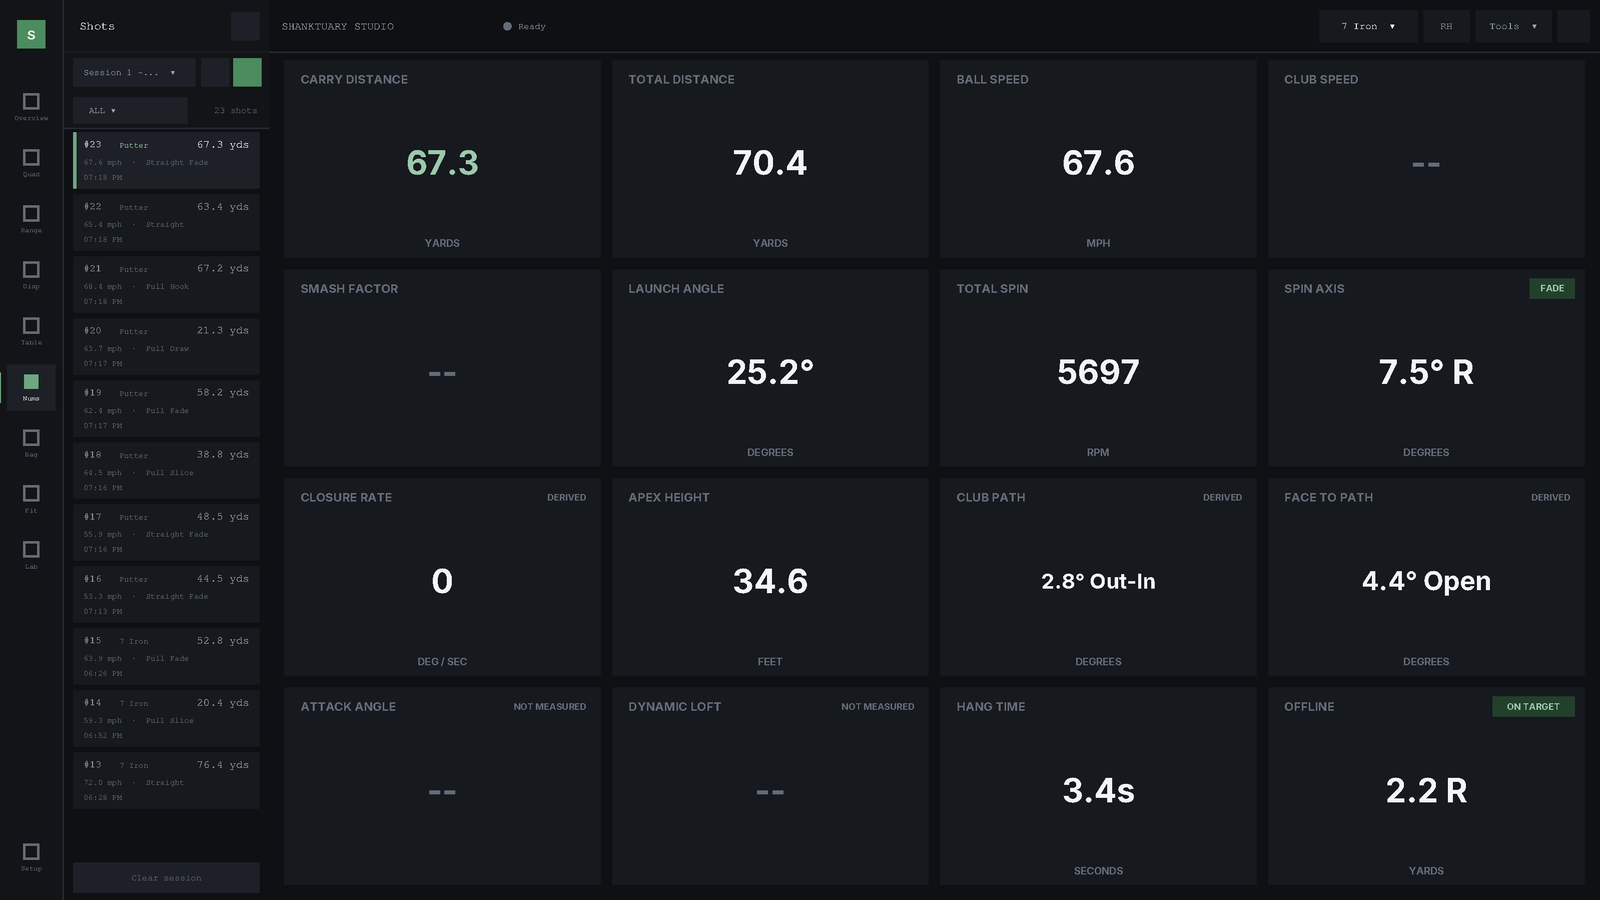
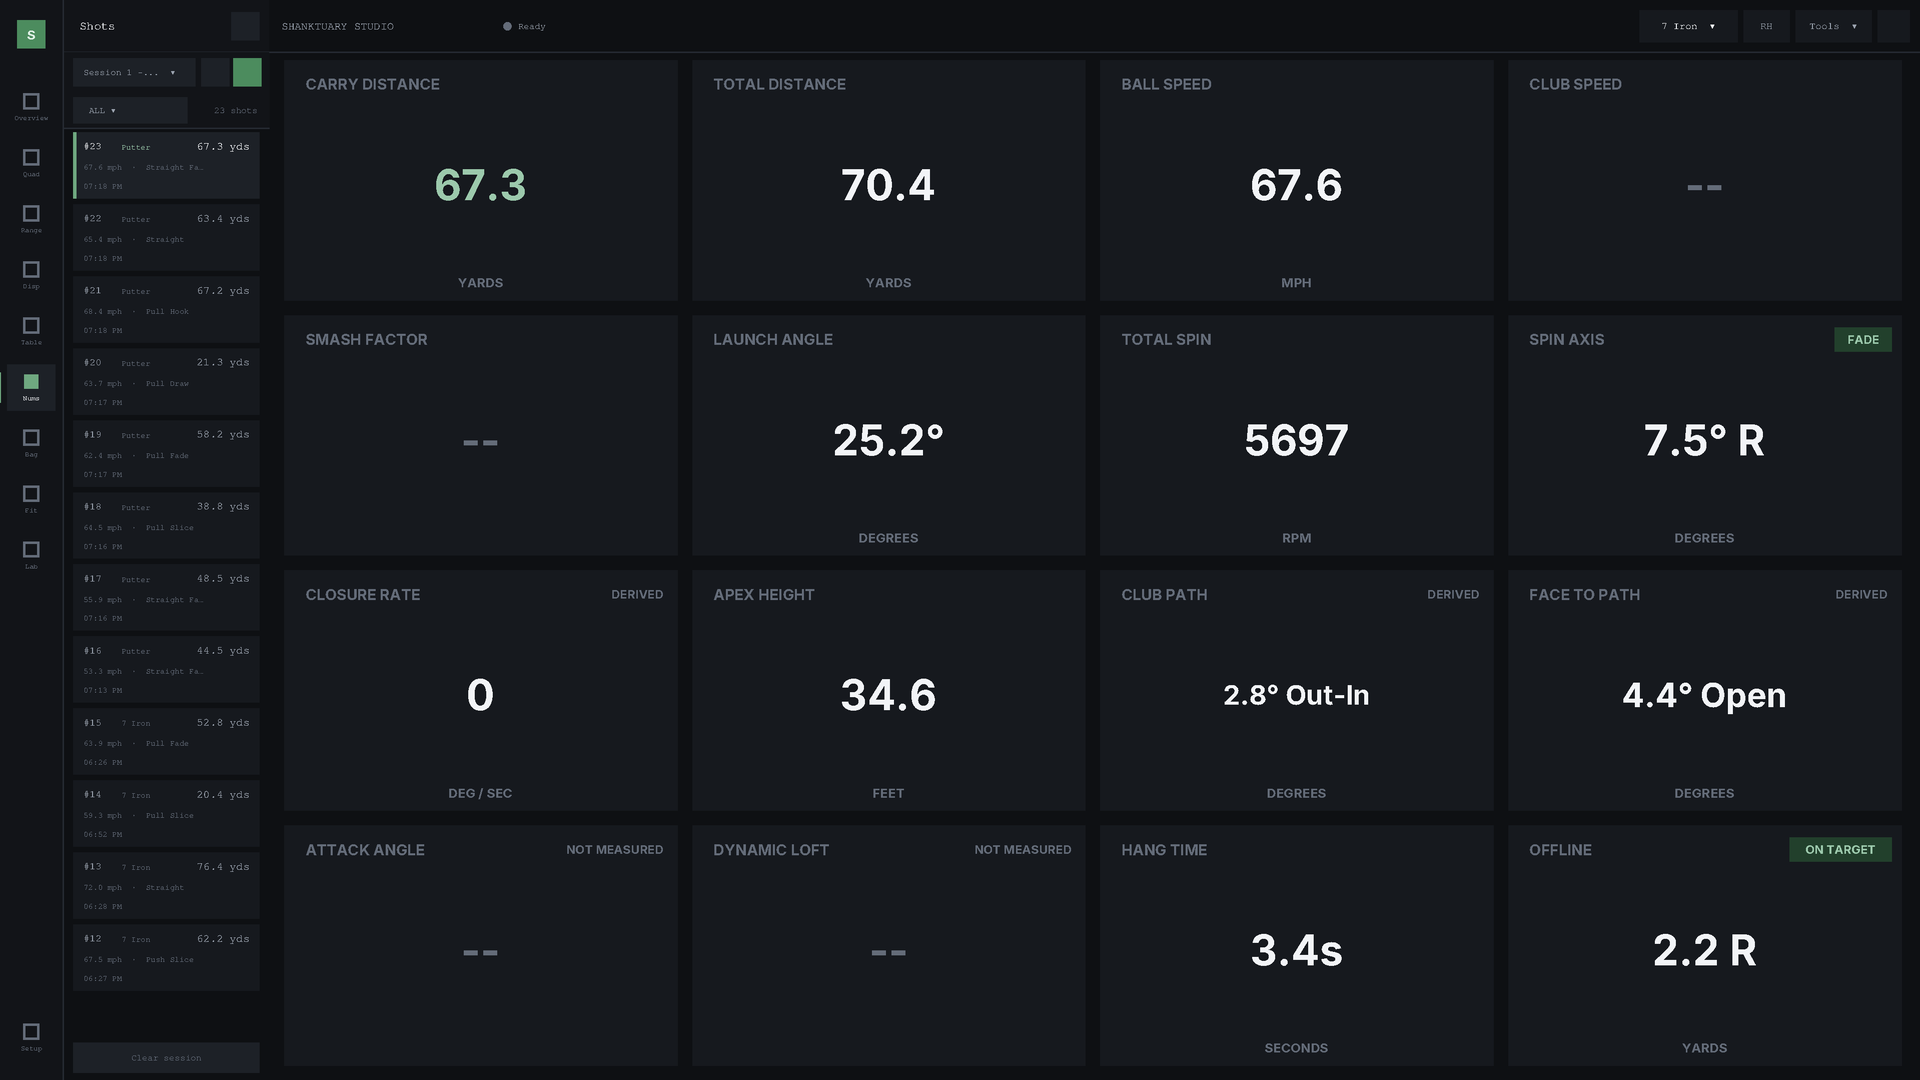
fix(quad): stop text overlapping, app-wide
"IMPACT LOCATION" ran under the ESTIMATE chip because the chip was placed
at a hardcoded offset from the caption -- a guess at how wide the caption
renders. Both the chip and the DERIVED tag now measure the caption with
bbox() and sit clear of it.

Auditing for the same class of bug with a script that compares real text
bboxes found 63 overlapping pairs across the app, not one. The cause is the
font fix from the previous commit: the app had been silently falling back to
Nimbus Sans, and every piece of vertical spacing had been tuned by eye
against that narrower face. A real UI face renders taller, so the tuned
offsets no longer clear.

The subtle part: anchor="w" centres text VERTICALLY on its y, so a bbox
extends +-half its height. An 8pt caption is ~29px tall and a 12pt value
~45px, meaning a caption/value pair needs 14.5 + 22.5 = 37px between them --
the code was using 15. Spacing is now derived from the type sizes rather
than being a magic number, so it holds across the 0.85-1.85 font_scale range
instead of only clearing at the top end.

Fixed: quad panel annotations, the shared metric toolbar, and the shot
library cards (which also needed a taller card and real truncation --
estimating string width from character count under-counted "67.6 mph ·
Straight Fade" by 37px, so the text ran under the carry figure beside it).

Adds _text_width(), a cached tkfont.measure() wrapper, since guessing at
text width is what caused the truncation bug.
[…]

diff --git a/shanktuary_performance_studio.py b/shanktuary_performance_studio.py
@@ -537,6 +537,9 @@ class ShanktuaryApp:
         self.overview_prev_rect = None
         self.overview_next_rect = None
         self.overview_bar_rects = []
+        # Cache for _text_width(): measuring is cheap but this runs per card
+        # per redraw, and the set of strings is small and repetitive.
+        self._text_w_cache = {}
         self.balance_modal_sim_rect = None
         self.balance_modal_pair_rect = None
         self.balance_modal_copy_pin_rect = None
@@ -786,6 +789,29 @@ class ShanktuaryApp:
             os.replace(tmp_path, SESSION_LOG_PATH)
         except Exception as e:
             print(f"[!] Error saving session: {e}")
+
+    def _text_width(self, text, font_spec):
+        """Measured pixel width of a string, cached.
+
+        Estimating from character count under-counts badly on a proportional
+        face -- "67.6 mph  ·  Straight Fade" measures 167px but a len*5
+        estimate gives 130px, so truncation never triggered and the text ran
+        under the right-aligned value beside it.
+        """
+        key = (text, font_spec)
+        cached = self._text_w_cache.get(key)
+        if cached is None:
+            try:
+                import tkinter.font as tkfont
+                fam = font_spec[0]
+                size = font_spec[1] if len(font_spec) > 1 else 10
+                weight = "bold" if "bold" in font_spec else "normal"
+                cached = tkfont.Font(family=fam, size=size,
+                                     weight=weight).measure(text)
+            except Exception:
+                cached = int(len(text) * size * 0.62)
+            self._text_w_cache[key] = cached
+        return cached
 
     def get_scaled_club_asset(self, path, target_h, mirror=False):
         key = (path, target_h, mirror)
@@ -2499,7 +2525,10 @@ class ShanktuaryApp:
         # 4. Shot Card Stream (y: 132 to h - 42)
         card_stream_y1 = 132
         card_stream_y2 = h - 42
-        card_h = 56
+        # 66 not 56: three 8-10pt lines in a real UI face measure ~17px each,
+        # so they baseline at 14/35/54 and the card needs descender room under
+        # the last one.
+        card_h = 66
         card_gap = 6
 
         self.sidebar_shot_card_rects.clear()
@@ -2541,17 +2570,29 @@ class ShanktuaryApp:
                 t_stamp = shot.get("timestamp", "--:--")
 
                 # Line 1: #N  [Club]  Carry
+                # Line spacing is 14/32/49 rather than 12/30/45: a real UI face
+                # renders taller than the Nimbus Sans fallback the app used to
+                # get, and the tighter values had the three lines touching.
                 num_txt = f"#{real_idx + 1}"
-                self.canvas.create_text(20, cy1 + 12, text=num_txt, fill=theme.TEXT if is_selected else theme.TEXT_2, font=(theme.ui_font(), 10), anchor="w")
-                self.canvas.create_text(56, cy1 + 13, text=c_tag, fill=theme.ACCENT_TEXT if is_selected else theme.TEXT_3, font=(theme.ui_font(), 8), anchor="w")
-                self.canvas.create_text(sb_w - 20, cy1 + 12, text=f"{carry:.1f} yds", fill=theme.TEXT if is_selected else theme.TEXT_2, font=(theme.ui_font(), 11), anchor="e")
+                self.canvas.create_text(20, cy1 + 14, text=num_txt, fill=theme.TEXT if is_selected else theme.TEXT_2, font=(theme.ui_font(), 10), anchor="w")
+                self.canvas.create_text(58, cy1 + 15, text=c_tag, fill=theme.ACCENT_TEXT if is_selected else theme.TEXT_3, font=(theme.ui_font(), 8), anchor="w")
+                self.canvas.create_text(sb_w - 20, cy1 + 14, text=f"{carry:.1f} yds", fill=theme.TEXT if is_selected else theme.TEXT_2, font=(theme.ui_font(), 11), anchor="e")
 
-                # Line 2: Speed & Shot Name
-                self.canvas.create_text(20, cy1 + 30, text=f"{bspeed:.1f} mph  ·  {s_name}", fill=theme.TEXT_3, font=(theme.ui_font(), 8), anchor="w")
+                # Line 2: Speed & Shot Name. Clip the shape name to the card
+                # width -- "Straight Fade" plus the speed runs under the
+                # right-aligned carry figure on the line above.
+                sub2 = f"{bspeed:.1f} mph  ·  {s_name}"
+                sub_font = (theme.ui_font(), 8)
+                max_sub = sb_w - 40
+                if self._text_width(sub2, sub_font) > max_sub:
+                    while sub2 and self._text_width(sub2 + "…", sub_font) > max_sub:
+                        sub2 = sub2[:-1]
+                    sub2 += "…"
+                self.canvas.create_text(20, cy1 + 35, text=sub2, fill=theme.TEXT_3, font=sub_font, anchor="w")
 
                 # Line 3: Timestamp only -- smash is a constant when the OGC
                 # model saturates, so repeating it on every card is noise.
-                self.canvas.create_text(20, cy1 + 45, text=t_stamp, fill=theme.TEXT_3, font=(theme.ui_font(), 8), anchor="w")
+                self.canvas.create_text(20, cy1 + 54, text=t_stamp, fill=theme.TEXT_3, font=(theme.ui_font(), 8), anchor="w")
 
         # 5. Footer (y: h - 42 to h)
         clear_y1, clear_y2 = h - 38, h - 8
@@ -2940,9 +2981,11 @@ class ShanktuaryApp:
         pad = int(18 * t_scale)
         for i, (label, val, val_col) in enumerate(metrics):
             lx = int(offset_x + i * col_w) + pad
-            self.canvas.create_text(lx, top_y + int(15 * t_scale), text=label,
+            # 13 / 40 rather than 15 / 38: a real UI face is taller than the
+            # old fallback and the label's descenders touched the value's caps.
+            self.canvas.create_text(lx, top_y + int(13 * t_scale), text=label,
                                     fill=theme.TEXT_3, font=lbl_font, anchor="w")
-            self.canvas.create_text(lx, top_y + int(38 * t_scale), text=val,
+            self.canvas.create_text(lx, top_y + int(40 * t_scale), text=val,
                                     fill=val_col, font=val_font, anchor="w")
 
     def draw_club_dropdown(self, w, h):
@@ -4699,19 +4742,31 @@ class ShanktuaryApp:
         cap_f = (theme.ui_font(), max(7, int(8 * font_scale)))
         val_f = (theme.ui_font(), max(9, int(12 * font_scale)))
 
+        # anchor="w" centres text VERTICALLY on its y, so each bbox extends
+        # +-half its height. The gap therefore needs half the caption plus
+        # half the value, not the nominal point sizes: an 8pt caption renders
+        # ~29px tall and a 12pt value ~45px, i.e. 14.5 + 22.5 = 37px minimum.
+        _PX_PER_PT = 3.7
+        annot_gap = int((cap_f[1] + val_f[1]) * _PX_PER_PT * 0.5) + 5
+
         def annot(ax, ay, cap, val, anchor="w", col=None):
             self.canvas.create_text(ax, ay, text=cap, fill=theme.TEXT_3,
                                     font=cap_f, anchor=anchor)
-            self.canvas.create_text(ax, ay + int(15 * font_scale), text=val,
+            self.canvas.create_text(ax, ay + annot_gap, text=val,
                                     fill=col or theme.TEXT, font=val_f,
                                     anchor=anchor)
 
         def panel_cap(px, py, text, tag=None, tag_col=None):
-            self.canvas.create_text(px, py, text=text, fill=theme.TEXT_3,
-                                    font=cap_f, anchor="w")
+            cid = self.canvas.create_text(px, py, text=text, fill=theme.TEXT_3,
+                                          font=cap_f, anchor="w")
             if tag:
-                self.canvas.create_text(px + int(len(text) * 5.4 * font_scale) + 14,
-                                        py, text=tag,
+                # Measure, do not estimate from character count -- that
+                # under-counts on a proportional face and the tag lands on
+                # top of the caption.
+                cbb = self.canvas.bbox(cid)
+                tx = (cbb[2] + int(14 * font_scale)) if cbb else (
+                    px + int(len(text) * 6.2 * font_scale) + 14)
+                self.canvas.create_text(tx, py, text=tag,
                                         fill=tag_col or theme.TEXT_3,
                                         font=cap_f, anchor="w")
 
@@ -4744,9 +4799,11 @@ class ShanktuaryApp:
         ball_r = int(9 * scale)
         self.canvas.create_oval(q1_cx + ball_offset_x - ball_r, q1_cy - ball_r, q1_cx + ball_offset_x + ball_r, q1_cy + ball_r, fill=theme.TEXT, outline=theme.TEXT_2)
 
-        annot(gut_l, q1_bot - int(64 * font_scale), "FACE TO PATH",
+        # Keep clear of the next panel's caption: the value sits ~22px below
+        # its own y, so the last row needs that much clearance from q1_bot.
+        annot(gut_l, q1_bot - int(112 * font_scale), "FACE TO PATH",
               f"{abs(face_to_path):.1f}° {'open' if face_to_path > 0 else 'closed'}")
-        annot(gut_l, q1_bot - int(26 * font_scale), "FACE TO TARGET",
+        annot(gut_l, q1_bot - int(50 * font_scale), "FACE TO TARGET",
               f"{abs(face_to_target):.1f}° {'open' if face_to_target > 0 else 'closed'}")
         annot(gut_r, q1_cy + int(20 * font_scale), "SIDESPIN",
               f"{int(abs(sidespin))} rpm", anchor="e")
@@ -4761,12 +4818,12 @@ class ShanktuaryApp:
         bot_elev_str = f"Descent: {descent:.1f}°   |   Backspin: {int(backspin)} rpm"
 
         panel_cap(gut_l, q2_top + int(16 * font_scale), "LAUNCH & LOFT")
-        annot(gut_l, q2_top + int(56 * font_scale), "LAUNCH ANGLE",
+        annot(gut_l, q2_top + int(52 * font_scale), "LAUNCH ANGLE",
               f"{vert_launch:.1f}°")
         _c = self.get_bag_club((self.current_shot or {}).get("club") or self.current_club) or {}
         _lf = float(_c.get("loft_deg") or 0.0)
         if _lf > 0:
-            annot(gut_l, q2_top + int(96 * font_scale), "STATIC LOFT",
+            annot(gut_l, q2_top + int(118 * font_scale), "STATIC LOFT",
                   f"{_lf:.1f}°")
         self.canvas.create_line(q2_cx - int(160 * scale), ground_y, q2_cx + int(160 * scale), ground_y, fill=theme.GUIDE, width=2, dash=(4, 4))
         
@@ -4835,9 +4892,9 @@ class ShanktuaryApp:
 
         annot(gut_l3, q3_cy - int(30 * font_scale), "SPIN AXIS",
               f"{abs(spin_axis):.1f}° {'right' if spin_axis > 0 else 'left'}")
-        annot(gut_r3, q3_bot - int(64 * font_scale), "TOTAL SPIN",
+        annot(gut_r3, q3_bot - int(96 * font_scale), "TOTAL SPIN",
               f"{int(total_spin)} rpm", anchor="e")
-        annot(gut_r3, q3_bot - int(26 * font_scale), "BACKSPIN",
+        annot(gut_r3, q3_bot - int(34 * font_scale), "BACKSPIN",
               f"{int(backspin)} rpm", anchor="e")
 
         # Quadrant 4 (Bottom-Right): High-Precision Face Impact Location & Strike Coordinates
@@ -5109,21 +5166,31 @@ class ShanktuaryApp:
         # annotations -- the mockup has no outlined pills here.
         gut_l4 = offset_x + quad_w + int(18 * font_scale)
         cap_y4 = q4_top + int(16 * font_scale)
-        panel_cap(gut_l4, cap_y4, "IMPACT LOCATION")
-        chip_x = gut_l4 + int(96 * font_scale)
-        self.canvas.create_rectangle(chip_x, cap_y4 - int(9 * font_scale),
-                                     chip_x + int(64 * font_scale),
-                                     cap_y4 + int(9 * font_scale),
-                                     fill="#2A2118", outline="")
-        self.canvas.create_text(chip_x + int(32 * font_scale), cap_y4,
-                                text="ESTIMATE", fill=theme.WARN,
-                                font=(theme.ui_font(), max(7, int(8 * font_scale)), "bold"),
-                                anchor="center")
+        # Measure the caption rather than assuming its width: a fixed offset
+        # overlaps once the font or scale changes.
+        cap_id4 = self.canvas.create_text(gut_l4, cap_y4,
+                                          text="IMPACT LOCATION",
+                                          fill=theme.TEXT_3, font=cap_f,
+                                          anchor="w")
+        cap_bb4 = self.canvas.bbox(cap_id4)
+        chip_x = (cap_bb4[2] + int(12 * font_scale)) if cap_bb4 else (
+            gut_l4 + int(110 * font_scale))
+        chip_f = (theme.ui_font(), max(7, int(8 * font_scale)), "bold")
+        chip_id = self.canvas.create_text(chip_x + int(9 * font_scale), cap_y4,
+                                          text="ESTIMATE", fill=theme.WARN,
+                                          font=chip_f, anchor="w")
+        chip_bb = self.canvas.bbox(chip_id)
+        if chip_bb:
+            self.canvas.create_rectangle(chip_x, chip_bb[1] - int(4 * font_scale),
+                                         chip_bb[2] + int(9 * font_scale),
+                                         chip_bb[3] + int(4 * font_scale),
+                                         fill="#2A2118", outline="")
+            self.canvas.tag_raise(chip_id)
 
-        annot(gut_l4, q4_top + int(56 * font_scale), "VERTICAL",
+        annot(gut_l4, q4_top + int(52 * font_scale), "VERTICAL",
               v_text.split(" ", 1)[-1] if " " in v_text else v_text,
               col=v_badge_col)
-        annot(gut_l4, q4_top + int(96 * font_scale), "HORIZONTAL",
+        annot(gut_l4, q4_top + int(118 * font_scale), "HORIZONTAL",
               h_text.split(" ", 1)[-1] if " " in h_text else h_text,
               col=h_badge_col)
 
